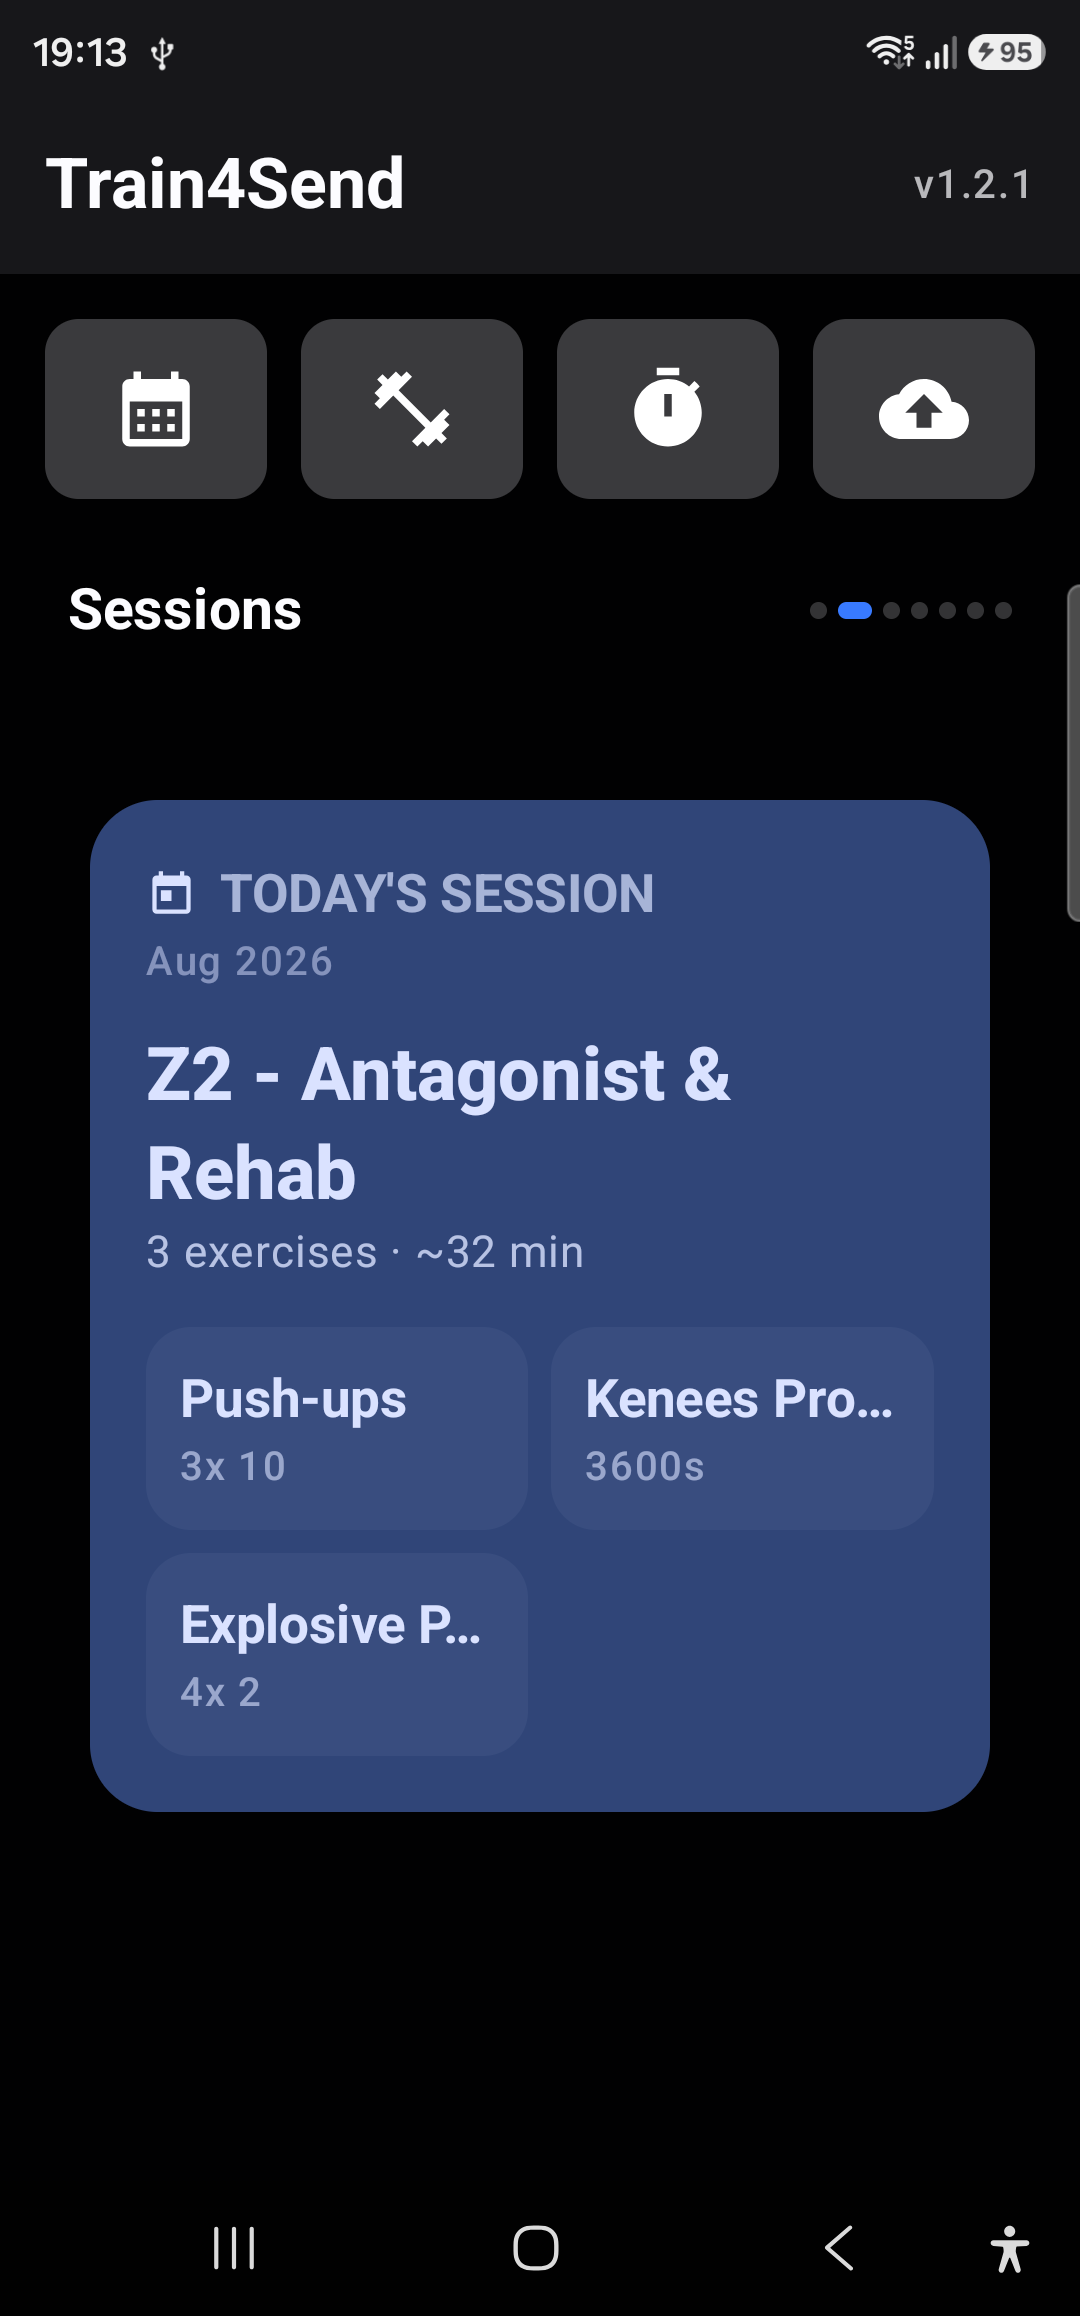
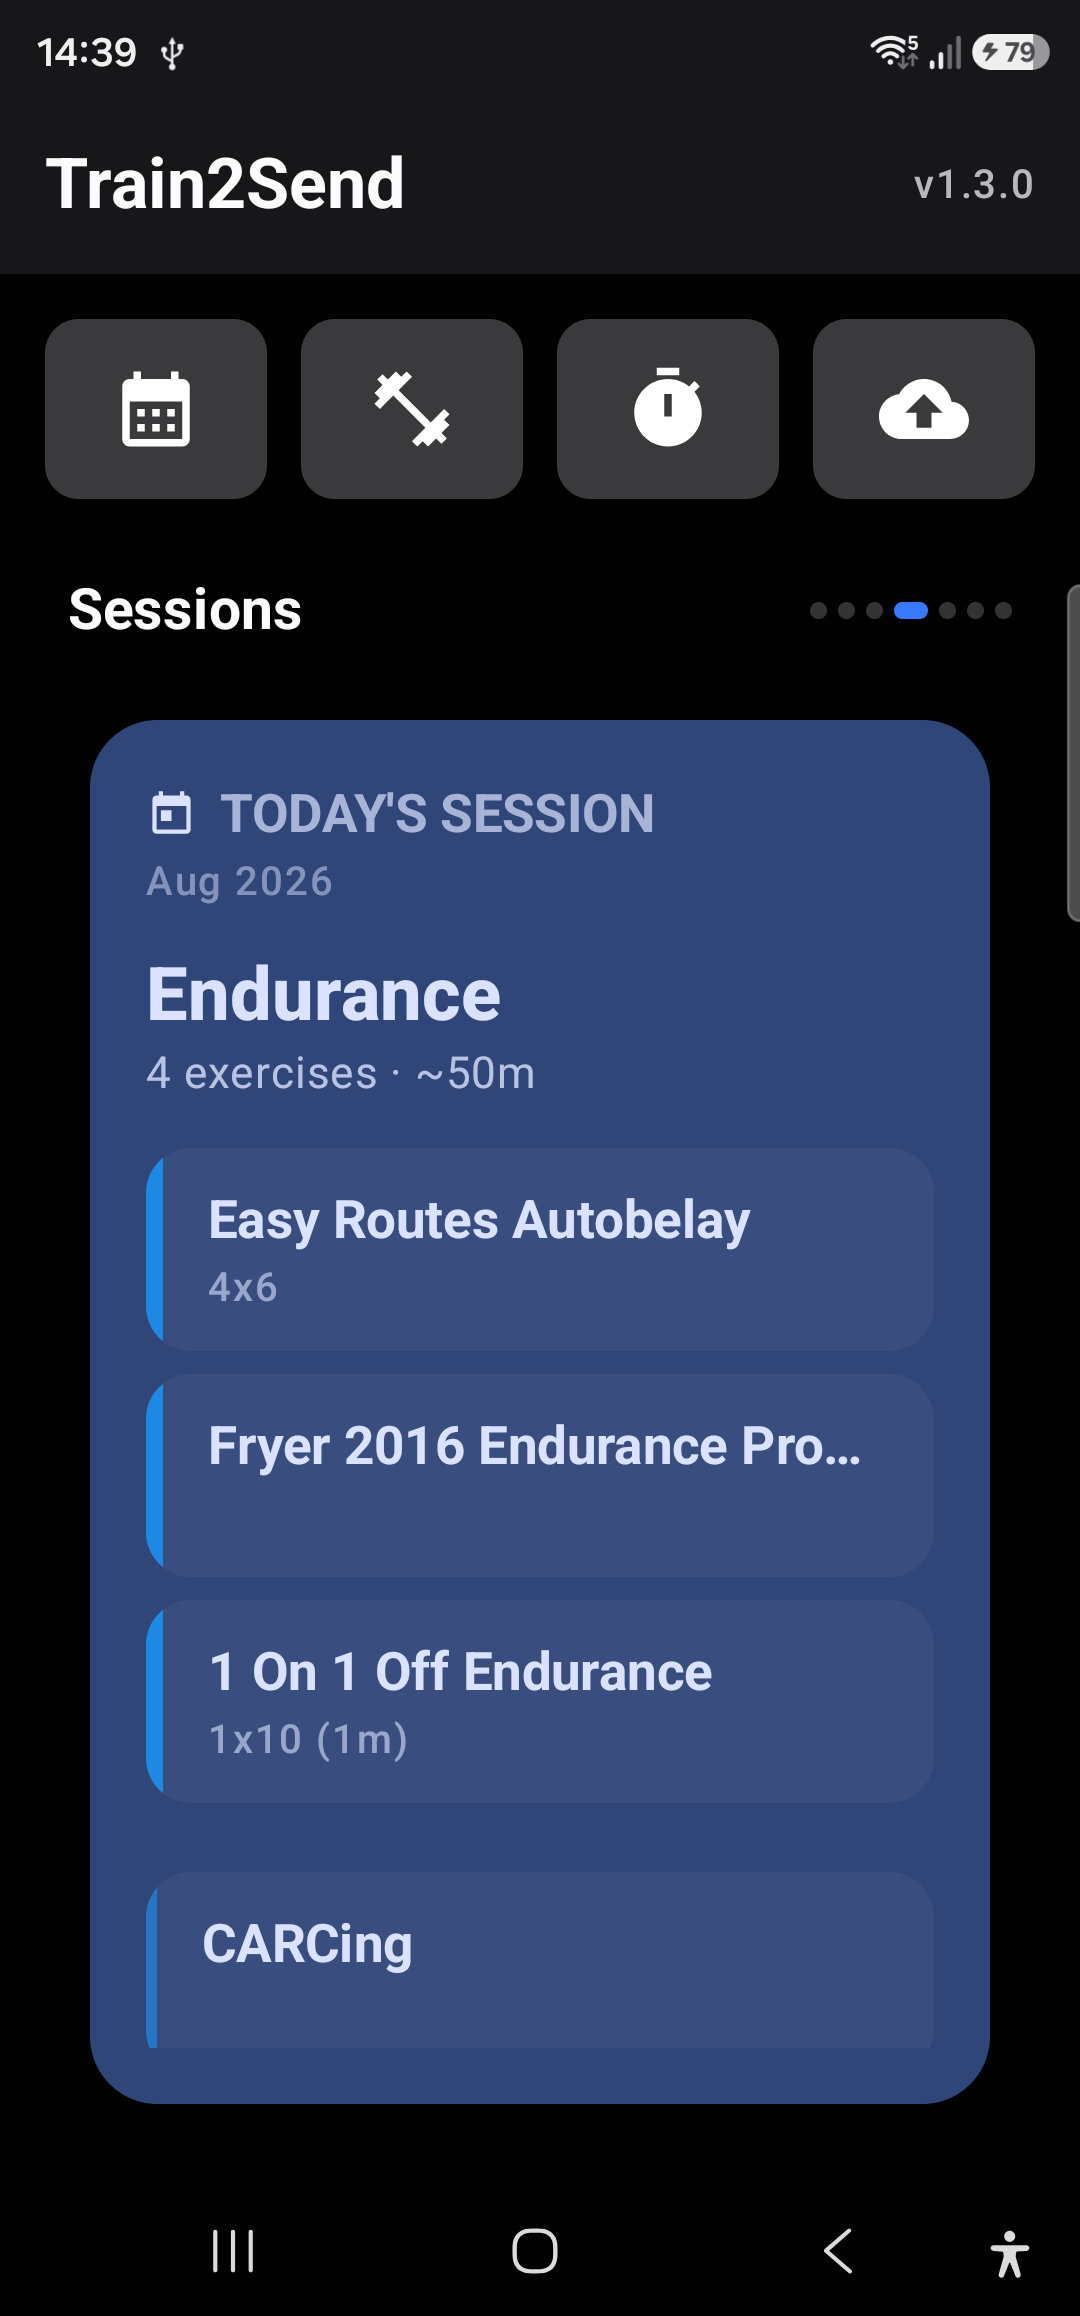
update readme

diff --git a/README.md b/README.md
@@ -6,6 +6,10 @@ A native Android app (Kotlin + Jetpack Compose) to schedule, execute, and track 
 
 ![Main Screen](screenshots/main_screen.png)
 
+![Exercises Screen](screenshots/exercises_screen.png)
+
+![Timer Screen](screenshots/timer_screen.png)
+
 ## Training Categories
 
 | Category | Color | Purpose |
